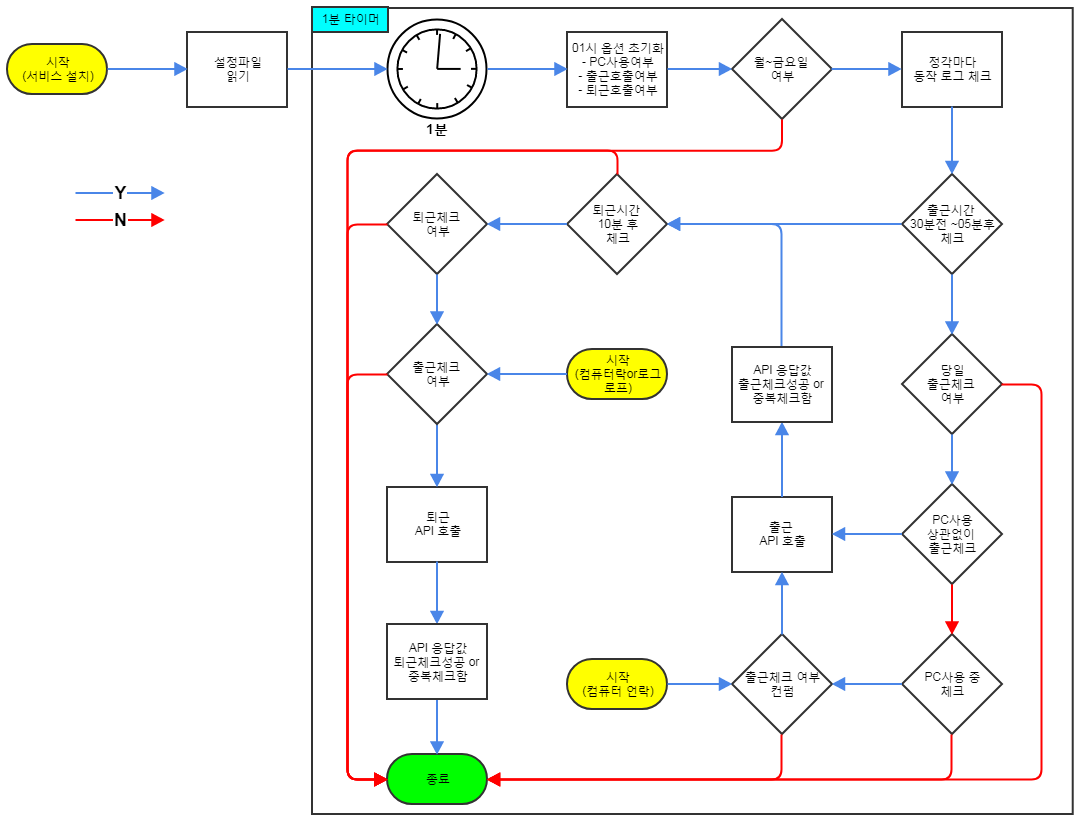
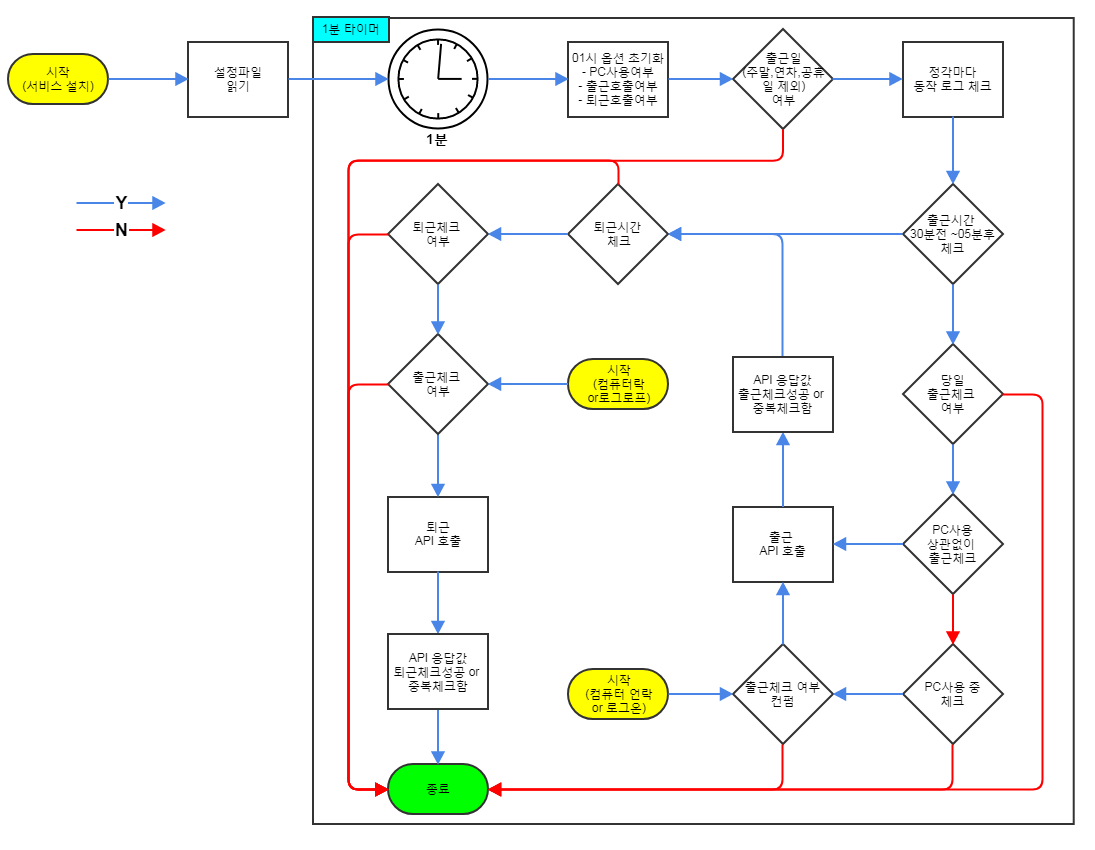
퇴근시간 설정한시간에 맞춰 바로 호출되게 수정

Changed region(s): [[0.0, 0.0, 1.0, 1.0], [0.0611, 0.2129, 0.1526, 0.2737]]

diff --git a/WorkTimeCheckAlarmService/WorkTimeCheckAlarm.cs b/WorkTimeCheckAlarmService/WorkTimeCheckAlarm.cs
@@ -169,7 +169,7 @@ namespace WorkTimeCheckAlarmService
             try
             {
                 // 퇴근체크시간 10분후에 자동 퇴근체크함.
-                if (DateTime.Now.Hour == checkOutTime.Hour && DateTime.Now.Minute == checkOutTime.AddMinutes(10).Minute)
+                if (DateTime.Now.Hour == checkOutTime.Hour && DateTime.Now.Minute == checkOutTime.Minute)
                 {
                     // 출근체크를 했고 퇴근체크 한번 했으면 더이상 안함.
                     if (checkOption.isCheckInCall && !checkOption.isCheckOutCall)
